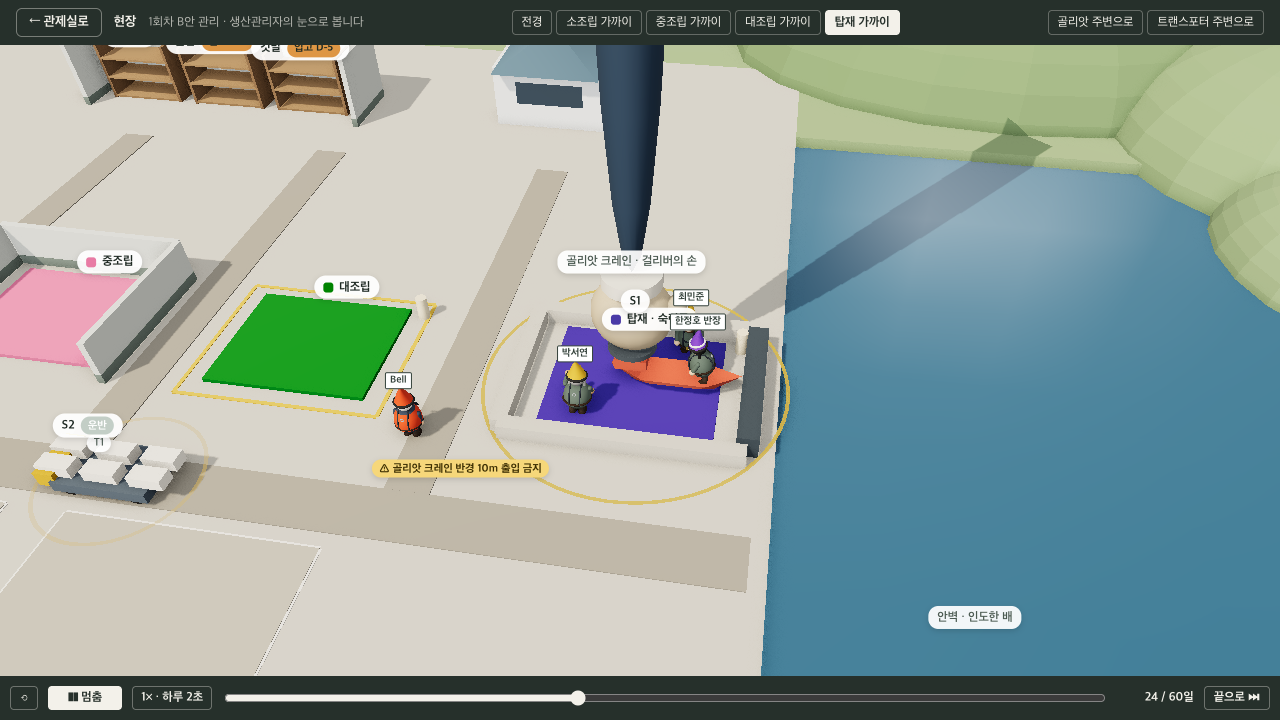
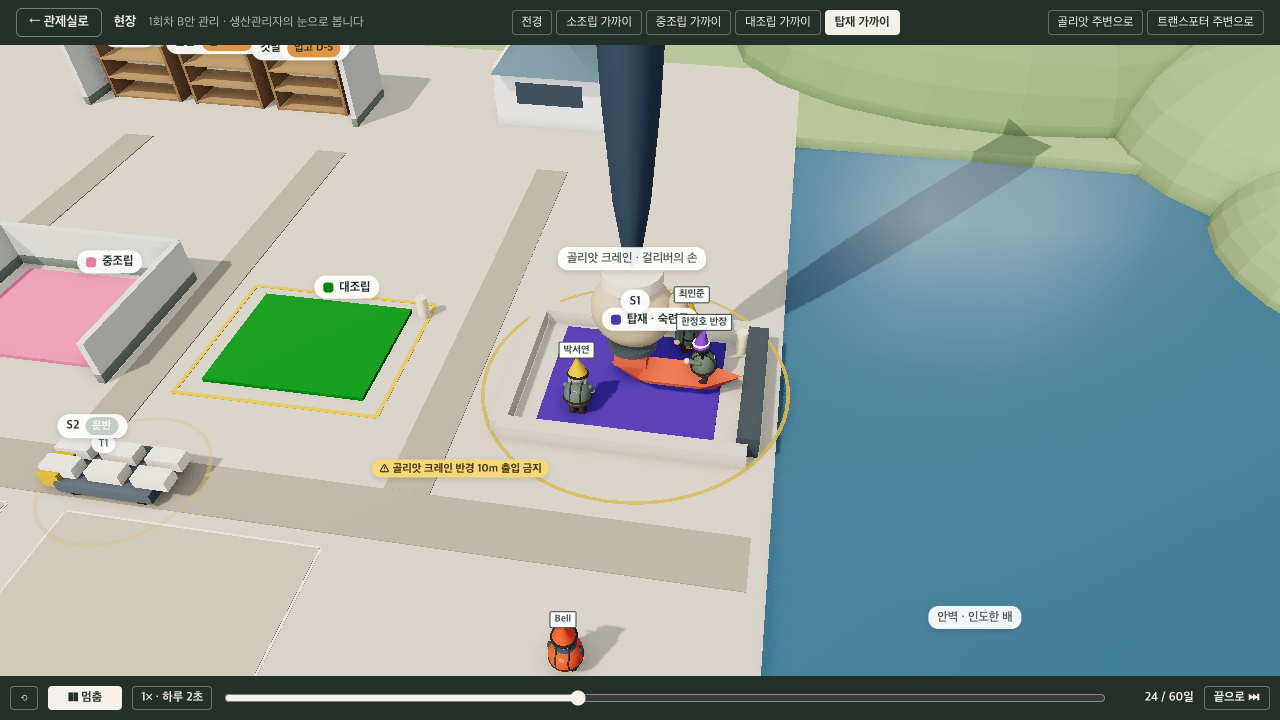
fix: 관리자 안전한 자리를 도크의 큰길 맞은편으로(샛길 위에 서던 것)

diff --git a/ui/src/scene/yard.ts b/ui/src/scene/yard.ts
@@ -39,7 +39,8 @@ const DOOR_OPEN = Math.PI * 0.47;   // 문이 거의 직각으로 열린다
 // 엔진 규칙이 아니라 현장 화면의 규칙이다. 반경은 팻말에 "반경 10m"로 적는다(소인국 척도라 화면 크기는 보기 좋게만).
 const CRANE_R = 2.9;        // 걸리버의 손(골리앗 크레인): 탑재 도크 둘레
 const CART_R = 1.4;         // 트랜스포터
-const SAFE_Z = 1.95;        // 안전한 자리: 1호 작업장 앞과 큰길 사이(크레인 반경 밖)
+// 안전한 자리: 도크의 큰길 맞은편 빈 땅. 크레인 반경(2.9)과 큰길 트랜스포터 반경(1.4) 밖이고, 샛길·적치장과도 겹치지 않는다.
+const SAFE_SPOT = new THREE.Vector3(8.5, 0, 3.7 + 2.1);   // STATION_X[3], LANE_Z + 2.1
 export type ManagerSpot = "safe" | "crane" | "cart";
 export interface Hazard { id: string; label: string }
 const WATER_TOP = 0.32;
@@ -461,7 +462,7 @@ export class Yard {
   }
 
   /**
-   * 관리자 자리. safe = 보고 있는 공정 앞쪽, 작업장에서 떨어진 안전한 자리(탑재는 크레인 반경 밖).
+   * 관리자 자리. safe = 도크의 큰길 맞은편(어느 공정을 보든 같은 자리).
    * crane·cart = 그 설비 옆으로 순간이동한다. 위험 반경에 들었으면 무엇인지 돌려준다(화면이 경고).
    */
   setManagerSpot(spot: ManagerSpot, station: number | null): Hazard | null {
@@ -482,8 +483,8 @@ export class Yard {
       const cart = this.carts.find((c) => c.group.visible)?.group.position ?? new THREE.Vector3(DEPOT.x, 0, LANE_Z);
       return new THREE.Vector3(cart.x + 0.5, 0, cart.z + 0.7);
     }
-    const x = i === null ? -1 : i === 3 ? STATION_X[3] - CRANE_R - 0.8 : STATION_X[i];
-    return new THREE.Vector3(x, 0, SAFE_Z);
+    void i;
+    return SAFE_SPOT.clone();
   }
 
   /** 위험 반경 표시(노랑·검정 점선 원)와 "반경 10m 출입 금지" 팻말 */

diff --git a/CHANGELOG.md b/CHANGELOG.md
@@ -26,7 +26,7 @@
 - 균형 점검에 작업장 3·나눠 하기. 엔진 테스트 57개(3.0 규칙 10개 포함)
 - 간트: 나눠 한 날은 막대를 작업장 수만큼 가로 줄로 나눠, 줄마다 그 작업장의 상태(작업은 공정 색, 짝 대기는 회색 빗금, 인력 대기 등 손실색)를 그린다. 나눠 하기를 쓰는 분기만 범례에 "짝 대기". 투입 사건은 배마다 하나, 나눠 들어가면 `units`(작업장 목록)와 "1·2·3호에 나눠"
 - 평가서 공정별 OEE 표에 "짝 대기"(나눠 하기를 쓴 회차만): 먼저 끝난 부분이 기다린 날. 작업장은 비어 다른 배를 받을 수 있어 OEE에는 넣지 않고, 배의 리드타임에서는 작업으로 센다. 엔진 결과 `stations[].pair_wait_days`, `units[].pair_wait_days`
-- 현장 안전 경고(D27·D28·D35, 엔진 밖·등급과 무관): 관리자는 평소 작업장에서 떨어진 안전한 자리에 선다. 현장 위쪽 "골리앗 주변으로"·"트랜스포터 주변으로"를 누르면 그 설비 옆으로 순간이동하고, 위험 반경이라 재생이 멈추고 경고 카드 [안전한 자리로 돌아가기]. 위험 반경 원(크레인은 일할 때 진하게, 트랜스포터는 움직일 때 따라다님)과 "반경 10m 출입 금지" 팻말. 평가서 맨 위 "현장 안전 경고 n회". 재생 중 저절로 뜨는 경고는 1인칭 이동 때로 미룬다
+- 현장 안전 경고(D27·D28·D35, 엔진 밖·등급과 무관): 관리자는 평소 도크의 큰길 맞은편(크레인·트랜스포터 반경 밖, 샛길·적치장과 겹치지 않음) 안전한 자리에 선다. 현장 위쪽 "골리앗 주변으로"·"트랜스포터 주변으로"를 누르면 그 설비 옆으로 순간이동하고, 위험 반경이라 재생이 멈추고 경고 카드 [안전한 자리로 돌아가기]. 위험 반경 원(크레인은 일할 때 진하게, 트랜스포터는 움직일 때 따라다님)과 "반경 10m 출입 금지" 팻말. 평가서 맨 위 "현장 안전 경고 n회". 재생 중 저절로 뜨는 경고는 1인칭 이동 때로 미룬다
 - 현장 진수 장면(그림만): 인도 다음 날, 1배속 재생 중 하루 안에 ① 탑재 작업자가 도크 밖으로 ② 도크에 물 ③ 걸리버의 손이 바다 쪽 문을 현관문처럼 연다(나가는 배의 왼쪽 끝이 세로 경첩, 손이 오른쪽 끝을 바다 쪽으로 민다) ④ 배가 문으로 나가 바다 제자리로 ⑤ 문 닫기 ⑥ 물 빼기. 그동안 다음 블록은 도크 앞에서 기다린다. 엔진 규칙·일정은 그대로(`frame.ts`의 `launches`)
 - 생산계획서 분기 포스트잇에 "새로 쓸 수 있는 것"(시나리오 `unlocks`)
 - 분기별 옵션(D33): 기본 분기는 인력 일반·숙련공, 공법 표준·속성만(로봇·신공법·저가 자재·증설·나눠 하기 없음), 수주 증가는 모든 4M과 작업장 2개까지, 수주 급증은 작업장 3개·나눠 하기까지. 시나리오 `options`로 생산계획서가 가린 옵션을 그리지 않고, 엔진이 그 밖의 옵션을 쓴 설정을 거절한다(서버의 실행·저장도). 규칙 검증 테스트는 잠금을 푼 분기로 돈다. 엔진 테스트 61개

diff --git a/CLAUDE.md b/CLAUDE.md
@@ -119,7 +119,7 @@ Node는 Homebrew로 설치했다(v26).
   소조립은 절단 공정이기도 하다(옛 재단 자리): 소인이 칼을 들고, 자투리 종잇조각이 튀고, 정반 라벨에 "절단 중". 그림만 그렇고 규칙은 같다.
   증설(2.0): 2호 정반은 1호 바로 뒤(`UNIT2_Z`)에 "2호" 팻말과 함께, 로트와 소인은 자기 작업장에. 인력이 로봇인 공정은 소인 대신 회색 로봇 팔(일할 때 움직임). 걸리버의 손(크레인)은 1호 탑재만 따라간다.
   진수(그림만): 인도 다음 날 재생 중에만 하루 안에 작업자 퇴장 → 도크 물 채움 → 걸리버 손이 문을 현관문처럼 열기(배의 왼쪽 끝이 세로 경첩, 오른쪽 끝을 손이 바다 쪽으로) → 출항 → 닫기 → 물 빼기(`LAUNCH` 비율, `frame.ts`의 `launches`). 다음 블록은 그동안 도크 앞에서 기다린다. 멈춰 있으면 끝난 모습.
-  현장 안전(D27·D28·D35): 관리자는 평소 안전한 자리(`setManagerSpot("safe")`, 작업장에서 떨어진 1호 앞 선, 탑재는 크레인 반경 밖). "골리앗 주변으로"·"트랜스포터 주변으로"를 누르면 순간이동하고 main.ts `warnHazard`가 멈춤 + 경고 카드 [안전한 자리로 돌아가기], 회차의 `safetyWarnings`를 평가서에 한 줄(등급과 무관). 재생 중 자동 경고는 1인칭 이동(D9) 때로 미룬다.
+  현장 안전(D27·D28·D35): 관리자는 평소 안전한 자리(`setManagerSpot("safe")`, `SAFE_SPOT` = 도크의 큰길 맞은편, 어느 공정을 보든 같은 자리). "골리앗 주변으로"·"트랜스포터 주변으로"를 누르면 순간이동하고 main.ts `warnHazard`가 멈춤 + 경고 카드 [안전한 자리로 돌아가기], 회차의 `safetyWarnings`를 평가서에 한 줄(등급과 무관). 재생 중 자동 경고는 1인칭 이동(D9) 때로 미룬다.
   원인별 모습: 쉬는 사람은 대기소에 앉음, 고장은 연기, 사고는 통제 테이프, 잔업은 촛불, 빈 선반은 "입고 D-n", 손실은 로트 위 칩(색 + 글자).
 - `src/scene/people.ts`: 소인(2.1: 정원 노움 모습, 고깔모자, 하네스). 고깔모자 색으로 작업자·시니어(흰 띠)·관리자(조끼, 태블릿)를 구분한다.
   현장은 실사 쪽(D24): 환경광(`RoomEnvironment`), GTAO(구석 그늘, `EffectComposer`), 외곽선 없음. 사람마다 피부색·수염과 머리·체격, 가상 이름표(공정 가까이 볼 때만, 관리자 = 서명 닉네임).
